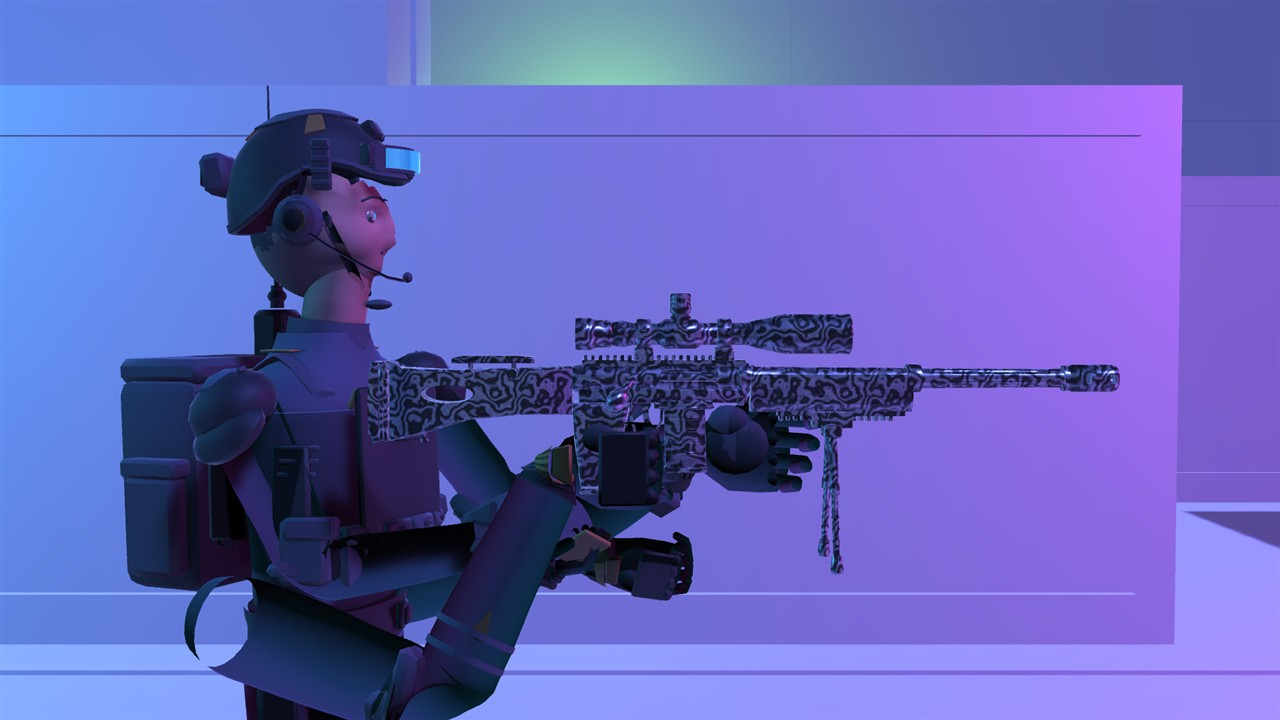
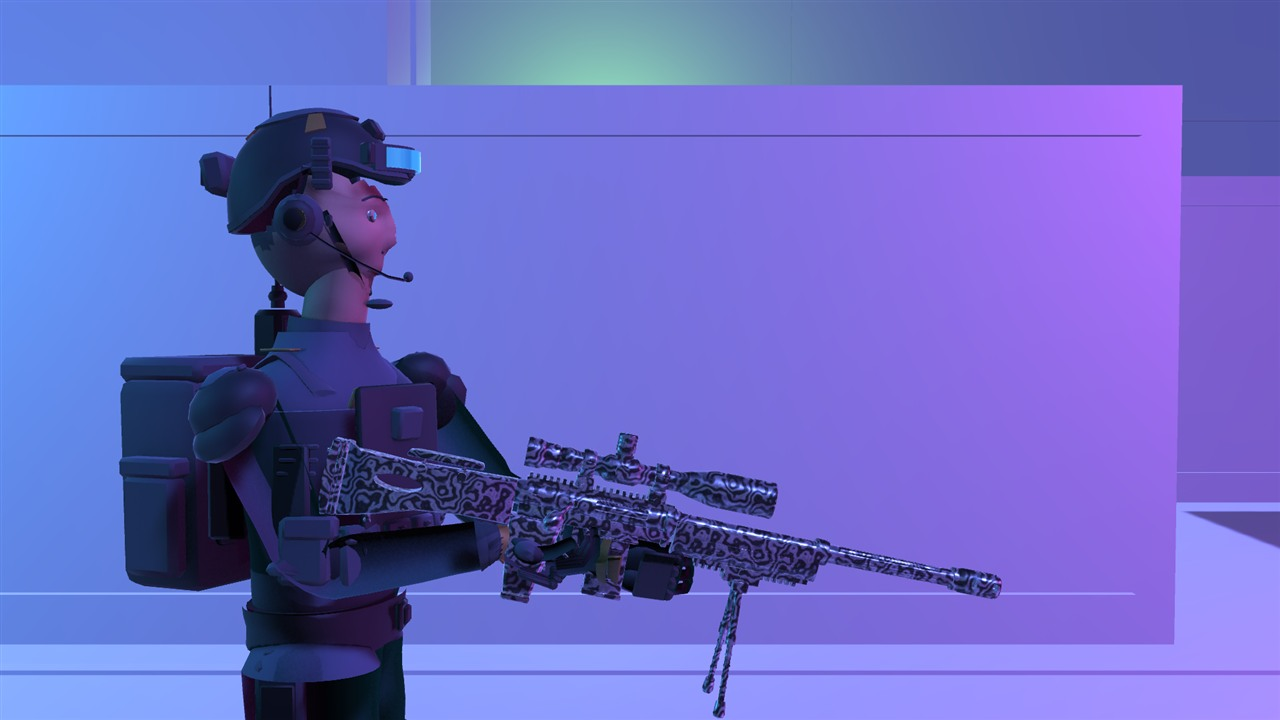
README: use held-gun skin shots for third-person weapon screenshots, update captions

diff --git a/README.md b/README.md
@@ -130,14 +130,14 @@ The Blender-built soldier in engine: a target bot, the player body with a rifle 
 
 ### Weapons in engine
 
-Blender-built models in Play Mode on the Shipment map, wearing weapon skins, against its dark neon purple and blue backdrop: the M4A1, shotgun and DMR in first person, the rest held in the third-person body view.
+Blender-built models in Play Mode on the Shipment map, wearing weapon skins, against its dark neon purple and blue backdrop: the M4A1, shotgun and DMR in first person, the rest in the third-person body view, where the skin is applied to the gun the soldier is holding.
 
 | | |
 | --- | --- |
-| ![M4A1 with the Woodland Camo skin, first person](docs/screenshots/model-m4a1.jpg) | ![SCAR-H with the Desert Tiger skin, held by the soldier](docs/screenshots/model-scar.jpg) |
-| ![UMP45 with the Kryptek Fracture skin, held by the soldier](docs/screenshots/model-ump.jpg) | ![Pump shotgun with the Copper Patina skin, first person](docs/screenshots/model-shotgun.jpg) |
-| ![LMG with the Arctic Digital skin, held by the soldier](docs/screenshots/model-lmg.jpg) | ![Bolt-action sniper with the Damascus skin, glass scope and bipod](docs/screenshots/model-sniper.jpg) |
-| ![DMR with the Night Viper skin, first person](docs/screenshots/model-dmr.jpg) | ![Pistol with the Carbon Fiber skin, held by the soldier](docs/screenshots/model-pistol.jpg) |
+| ![M4A1 with the Woodland Camo skin, first person](docs/screenshots/model-m4a1.jpg) | ![SCAR-H with the Desert Tiger skin on the held gun](docs/screenshots/model-scar.jpg) |
+| ![UMP45 with the Kryptek Fracture skin on the held gun](docs/screenshots/model-ump.jpg) | ![Pump shotgun with the Copper Patina skin, first person](docs/screenshots/model-shotgun.jpg) |
+| ![LMG with the Arctic Digital skin on the held gun](docs/screenshots/model-lmg.jpg) | ![Bolt-action sniper with the Damascus skin on the held gun, glass scope and bipod](docs/screenshots/model-sniper.jpg) |
+| ![DMR with the Night Viper skin, first person](docs/screenshots/model-dmr.jpg) | ![Pistol with the Carbon Fiber skin on the held gun](docs/screenshots/model-pistol.jpg) |
 
 The Damascus-skinned karambit in first person:
 
